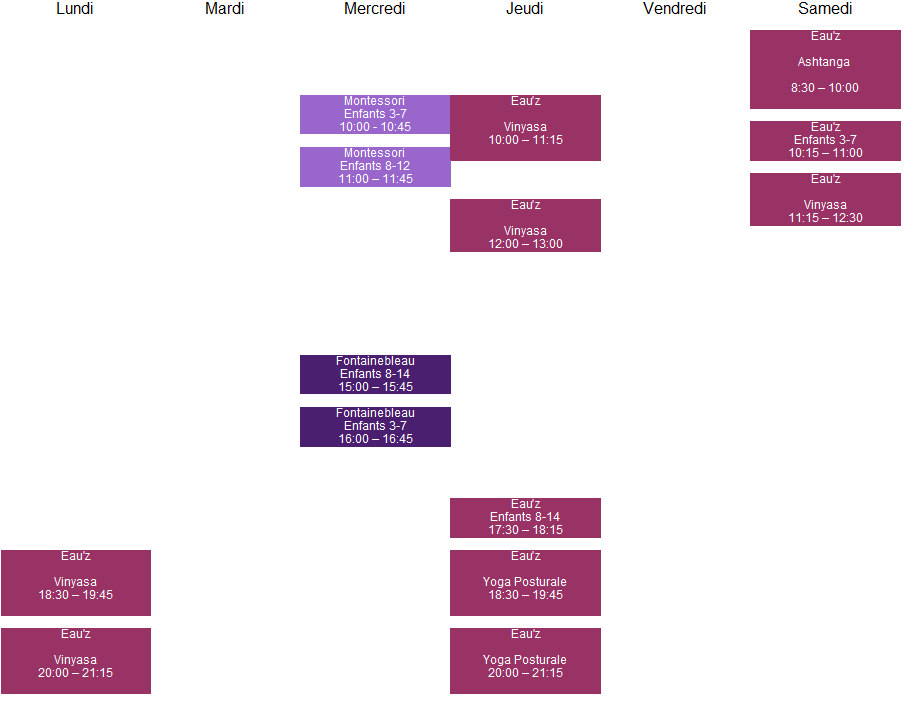
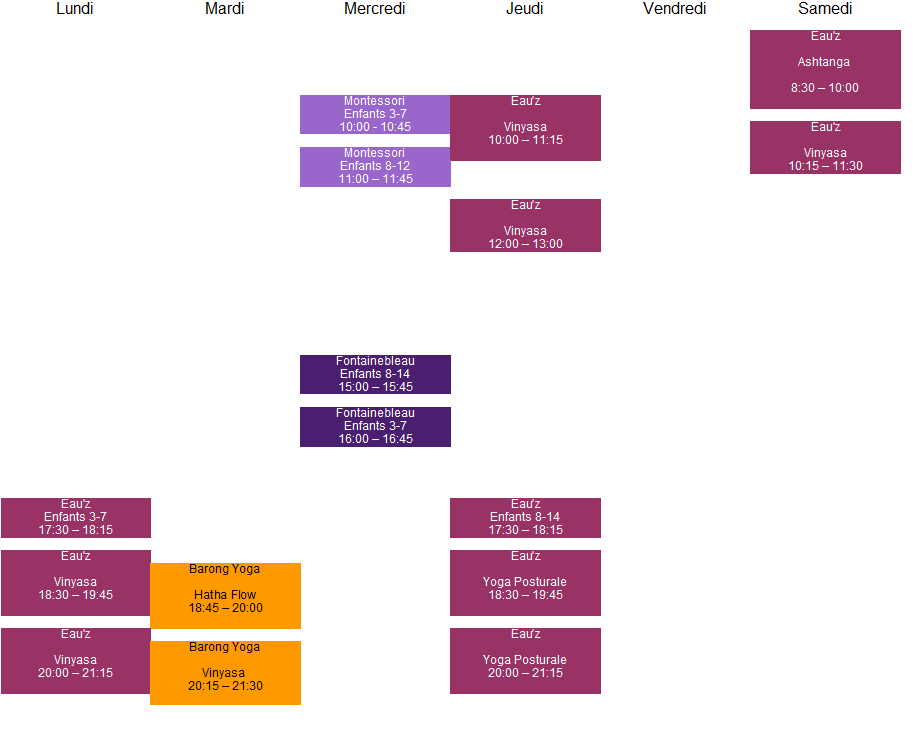
maj planning

diff --git a/yoga.html b/yoga.html
@@ -44,7 +44,9 @@
 			<h2> Cours </h2>
 
 				<h4> Groupe </h4>
-				<p>Cours adultes à Viry-Châtillon (minimum 3 élèves) à <a href="http://www.eauz.fr/">Eau'z</a> </p>
+				<p><ul>Cours adultes:
+					<li>Viry-Châtillon à <a href="http://www.eauz.fr/">Eau'z</a></li>
+				  <li>Brie Compte Robert à <a href="http://www.barongyoga.fr/">Barong Yoga</a></li> </p>
 				<p><ul>Cours enfants (minimum de 5 élèves):
 					<li>Viry-Châtillon au centre <a href="http://www.eauz.fr/">Eau'z</a>;</li>
 					<li>Evry à<a href="http://emmi91.fr/en/about/">l'école Montessori d'Evry</a>;</li>
@@ -66,7 +68,7 @@
 
 				<h2>Tarif Yoga</h2>
 
-						<p><b><u>Cours à Viry-Châtillon</u></b>: voir le site <a href="http://www.eauz.fr/">Eau'z</a>.
+						<p><b><u>Cours à Viry-Châtillon et Brie Compte Robert </u></b>: voir les sites <a href="http://www.eauz.fr/">Eau'z</a> et <a href="http://www.barongyoga.fr/">Barong Yoga</a></p>.
 						<p><b><u>Cours enfants Evry:</u></b>
 							<table>
 								<tr>
